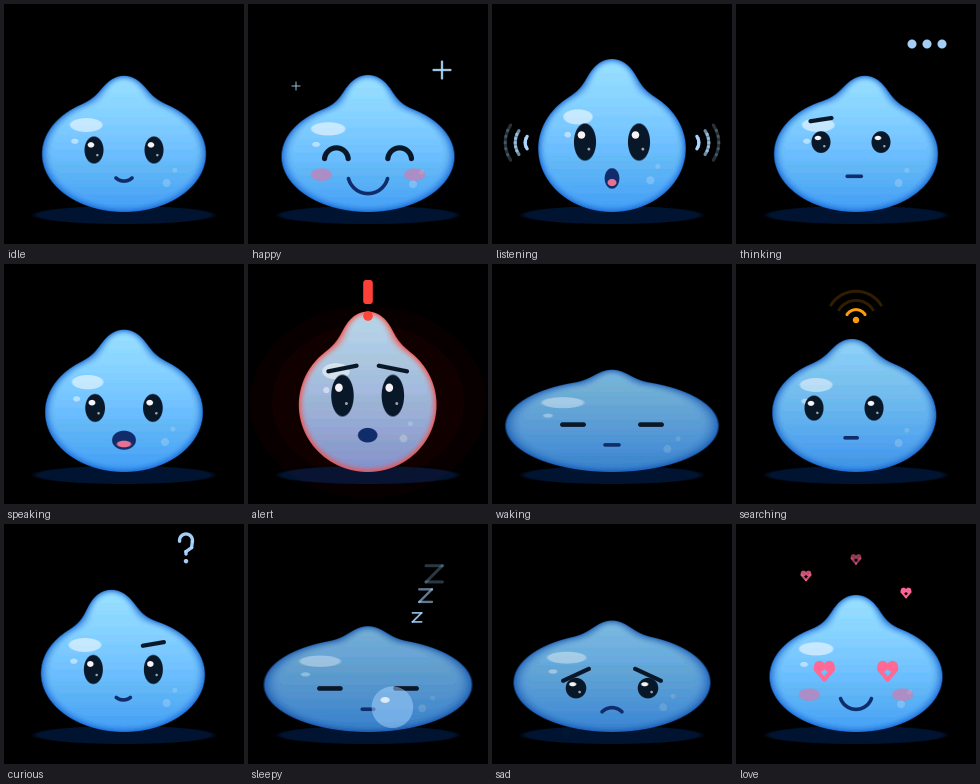
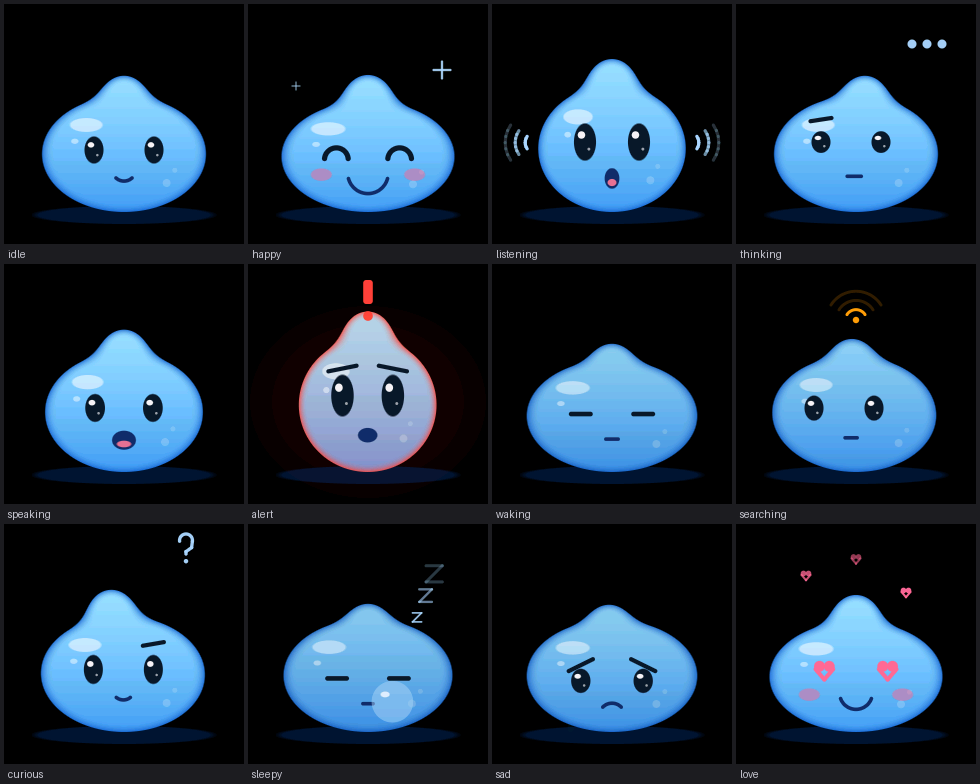
Mascot: sad, sleepy and waking no longer flatten into a pancake; they keep the body's shape and only slump a little

Changed region(s): [[0.4898, 0.4286, 0.7347, 0.6122], [0.2449, 0.7653, 0.4898, 0.949], [0.5204, 0.7653, 0.7347, 0.949]]

diff --git a/shell/island/src/slime.ts b/shell/island/src/slime.ts
@@ -27,11 +27,11 @@ const POSES = {
     thinking: {eyeRy: 12, lid: 0.1, mouthHw: 7, curve: -0.1, browL: 0.8, tipDx: 9, mouthDy: 25},
     speaking: {mouthHw: 13, curve: 0.3, open: 0.3, eyeRx: 10, tip: 0.85},
     alert: {sq: -0.16, eyeRx: 12, eyeRy: 18, eyeDy: -8, tilt: -0.4, mouthHw: 11, curve: -0.7, open: 0.25, mouthDy: 28, warm: 1, tip: 1},
-    waking: {sq: 0.3, shut: 1, curve: 0.1, tip: 0.2, dim: 0.3, mouthHw: 6},
+    waking: {sq: 0.04, shut: 1, curve: 0.1, tip: 0.55, dim: 0.12, mouthHw: 6},
     searching: {eyeRy: 12.5, mouthHw: 6, curve: -0.15, tip: 0.6, mouthDy: 25, dim: 0.1},
     curious: {tipDx: -10, browR: 0.9, tilt: -0.1, mouthHw: 7, curve: 0.5, eyeRy: 14.5, tip: 1},
-    sleepy: {sq: 0.27, shut: 1, mouthHw: 5, curve: 0, tip: 0.3, dim: 0.35, eyeDy: 2},
-    sad: {sq: 0.2, eyeRy: 12, tilt: -0.85, mouthHw: 9, curve: -0.6, mouthDy: 27, tip: 0.35, dim: 0.28, eyeDy: 2},
+    sleepy: {sq: 0.03, shut: 1, mouthHw: 5, curve: 0, tip: 0.5, dim: 0.15, eyeDy: 1},
+    sad: {sq: 0.04, eyeRy: 12.5, tilt: -0.85, mouthHw: 9, curve: -0.6, mouthDy: 26, tip: 0.5, tipDx: -3, dim: 0.12, eyeDy: 1},
     love: {sq: 0.03, blush: 1, mouthHw: 15, curve: 1, mouthDy: 23, tip: 1},
 };
 

diff --git a/firmware/niro-device/main/face.c b/firmware/niro-device/main/face.c
@@ -63,7 +63,7 @@ static pose_t pose_for(face_mood_t m) {
         p.warm = 1.f; p.tip = 1.f;
         break;
     case FACE_WAKING:
-        p.sq = .3f; p.shut = 1; p.curve = .1f; p.tip = .2f; p.dim = .3f; p.mouth_hw = 6;
+        p.sq = .04f; p.shut = 1; p.curve = .1f; p.tip = .55f; p.dim = .12f; p.mouth_hw = 6;
         break;
     case FACE_SEARCHING:
         p.eye_ry = 12.5f; p.mouth_hw = 6; p.curve = -.15f; p.tip = .6f; p.mouth_dy = 25; p.dim = .1f;
@@ -72,10 +72,10 @@ static pose_t pose_for(face_mood_t m) {
         p.tip_dx = -10; p.brow_r = .9f; p.tilt = -.1f; p.mouth_hw = 7; p.curve = .5f; p.eye_ry = 14.5f; p.tip = 1.f;
         break;
     case FACE_SLEEPY:
-        p.sq = .27f; p.shut = 1; p.mouth_hw = 5; p.curve = 0; p.tip = .3f; p.dim = .35f; p.eye_dy = 2;
+        p.sq = .03f; p.shut = 1; p.mouth_hw = 5; p.curve = 0; p.tip = .5f; p.dim = .15f; p.eye_dy = 1;
         break;
     case FACE_SAD:
-        p.sq = .2f; p.eye_ry = 12; p.tilt = -.85f; p.mouth_hw = 9; p.curve = -.6f; p.mouth_dy = 27; p.tip = .35f; p.dim = .28f; p.eye_dy = 2;
+        p.sq = .04f; p.eye_ry = 12.5f; p.tilt = -.85f; p.mouth_hw = 9; p.curve = -.6f; p.mouth_dy = 26; p.tip = .5f; p.tip_dx = -3; p.dim = .12f; p.eye_dy = 1;
         break;
     case FACE_LOVE:
         p.sq = .03f; p.blush = 1; p.mouth_hw = 15; p.curve = 1.f; p.mouth_dy = 23; p.tip = 1.f;
